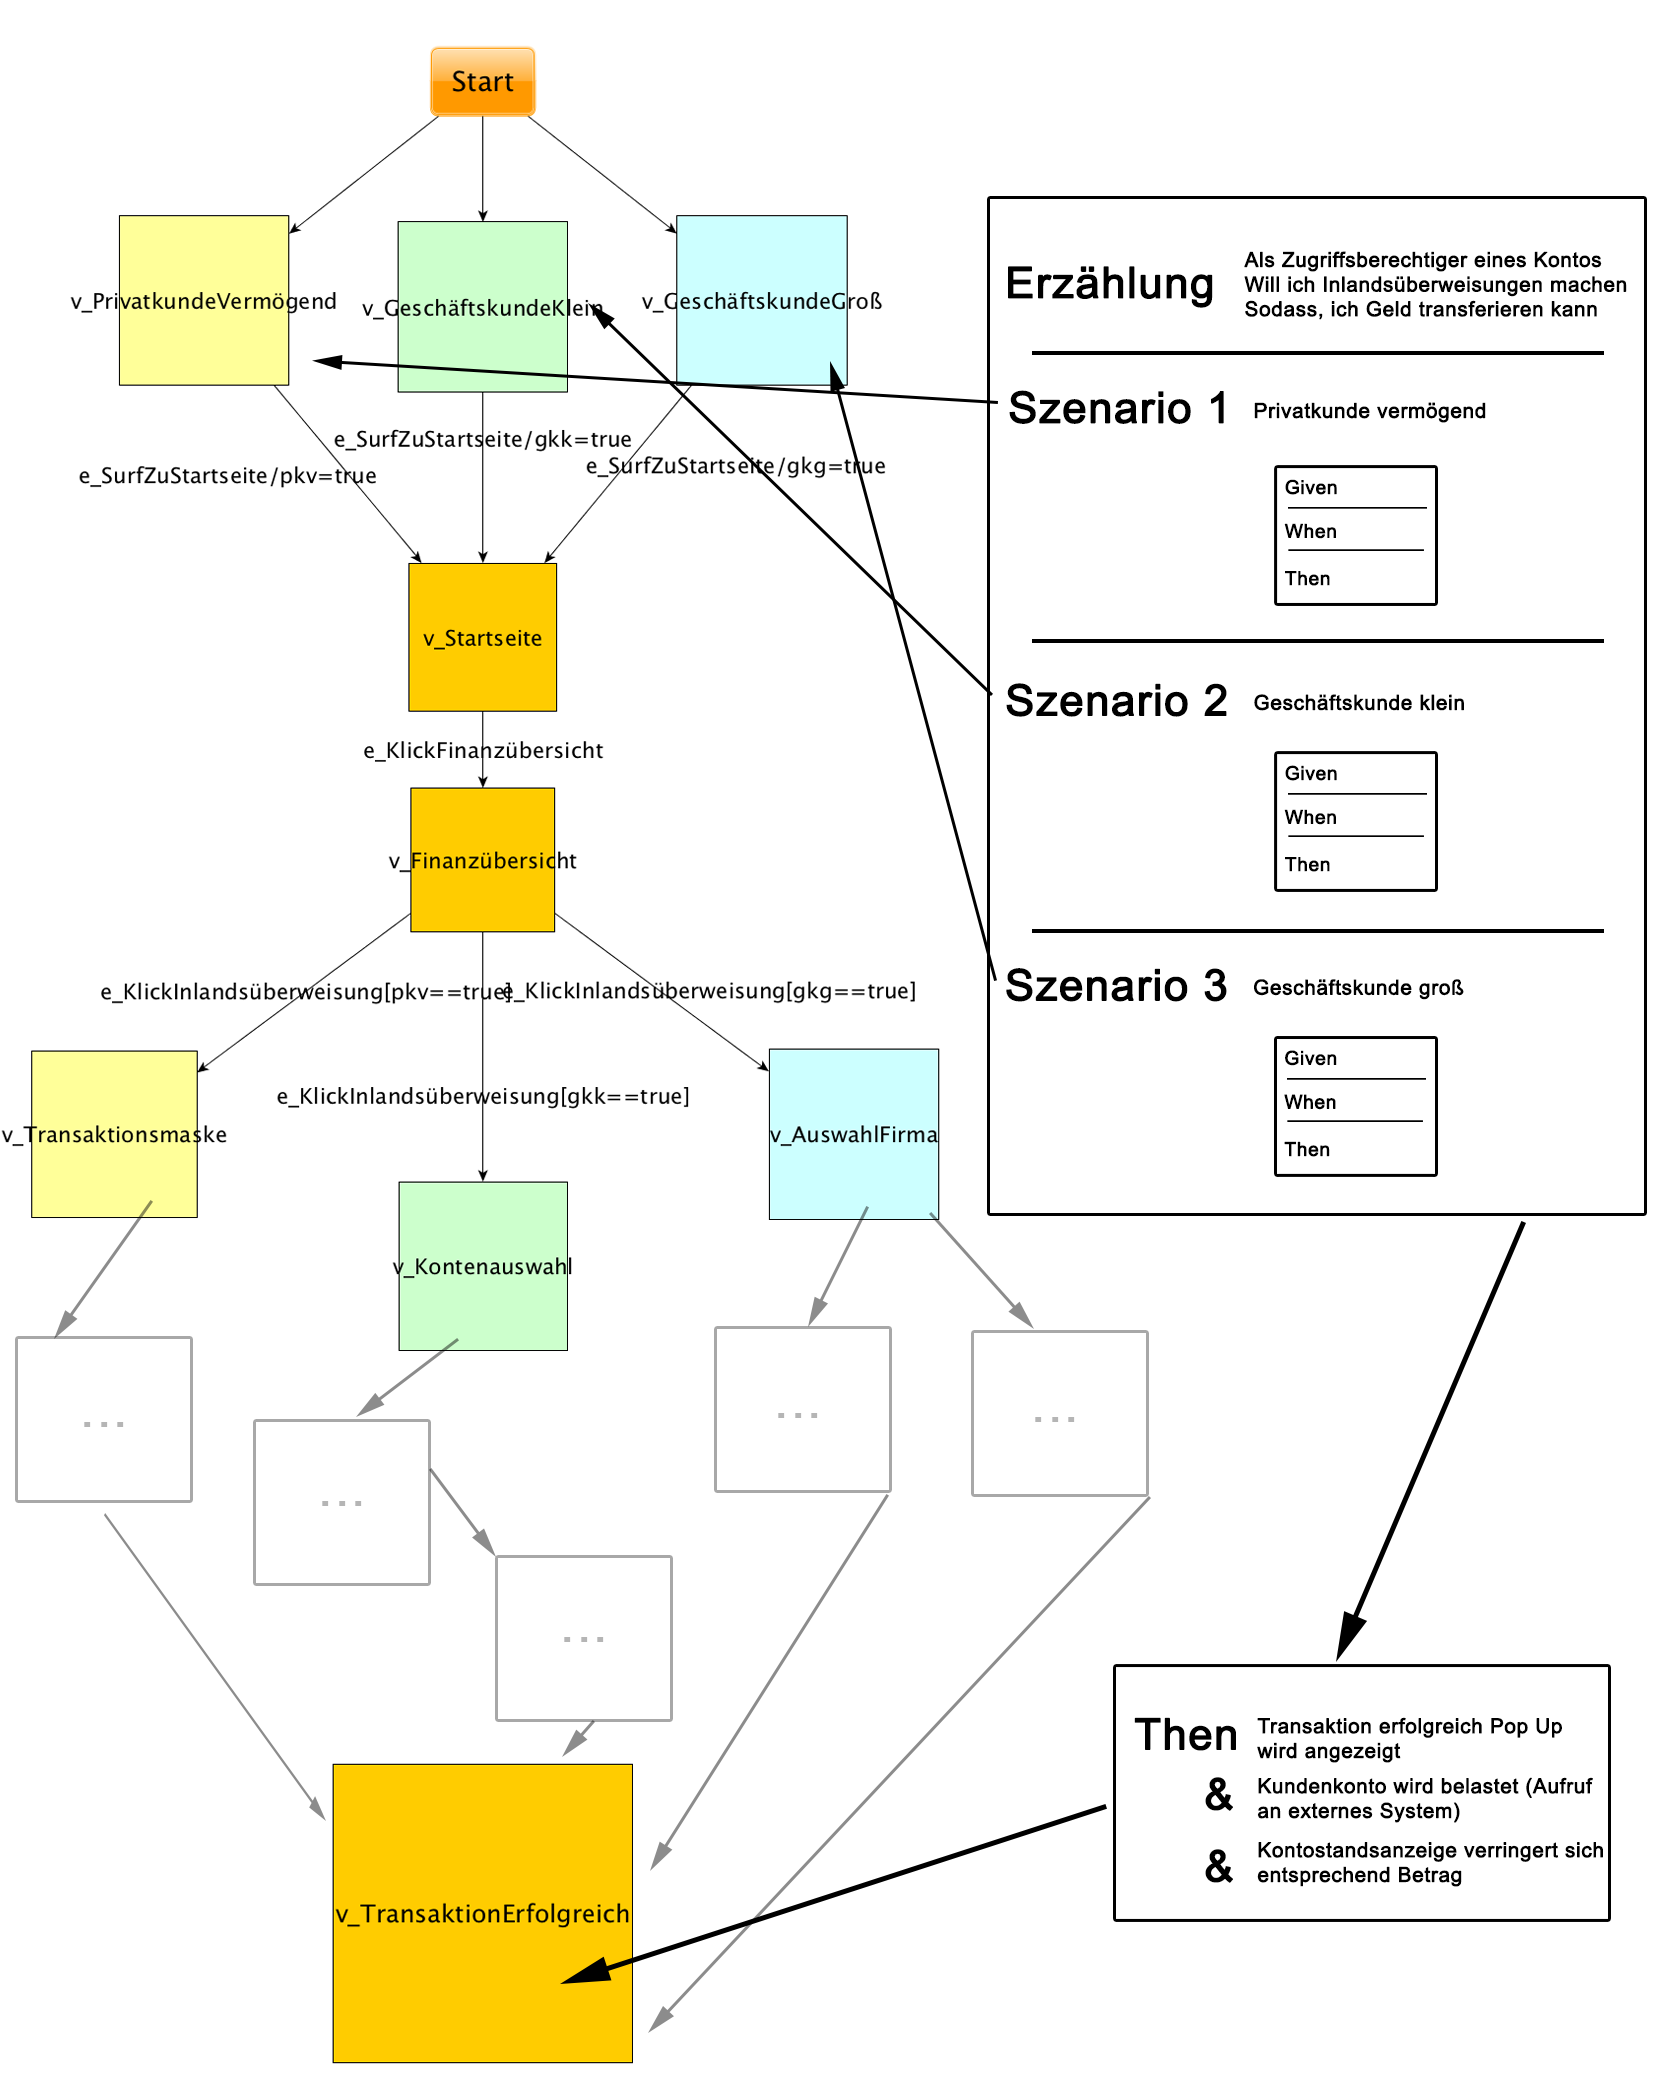
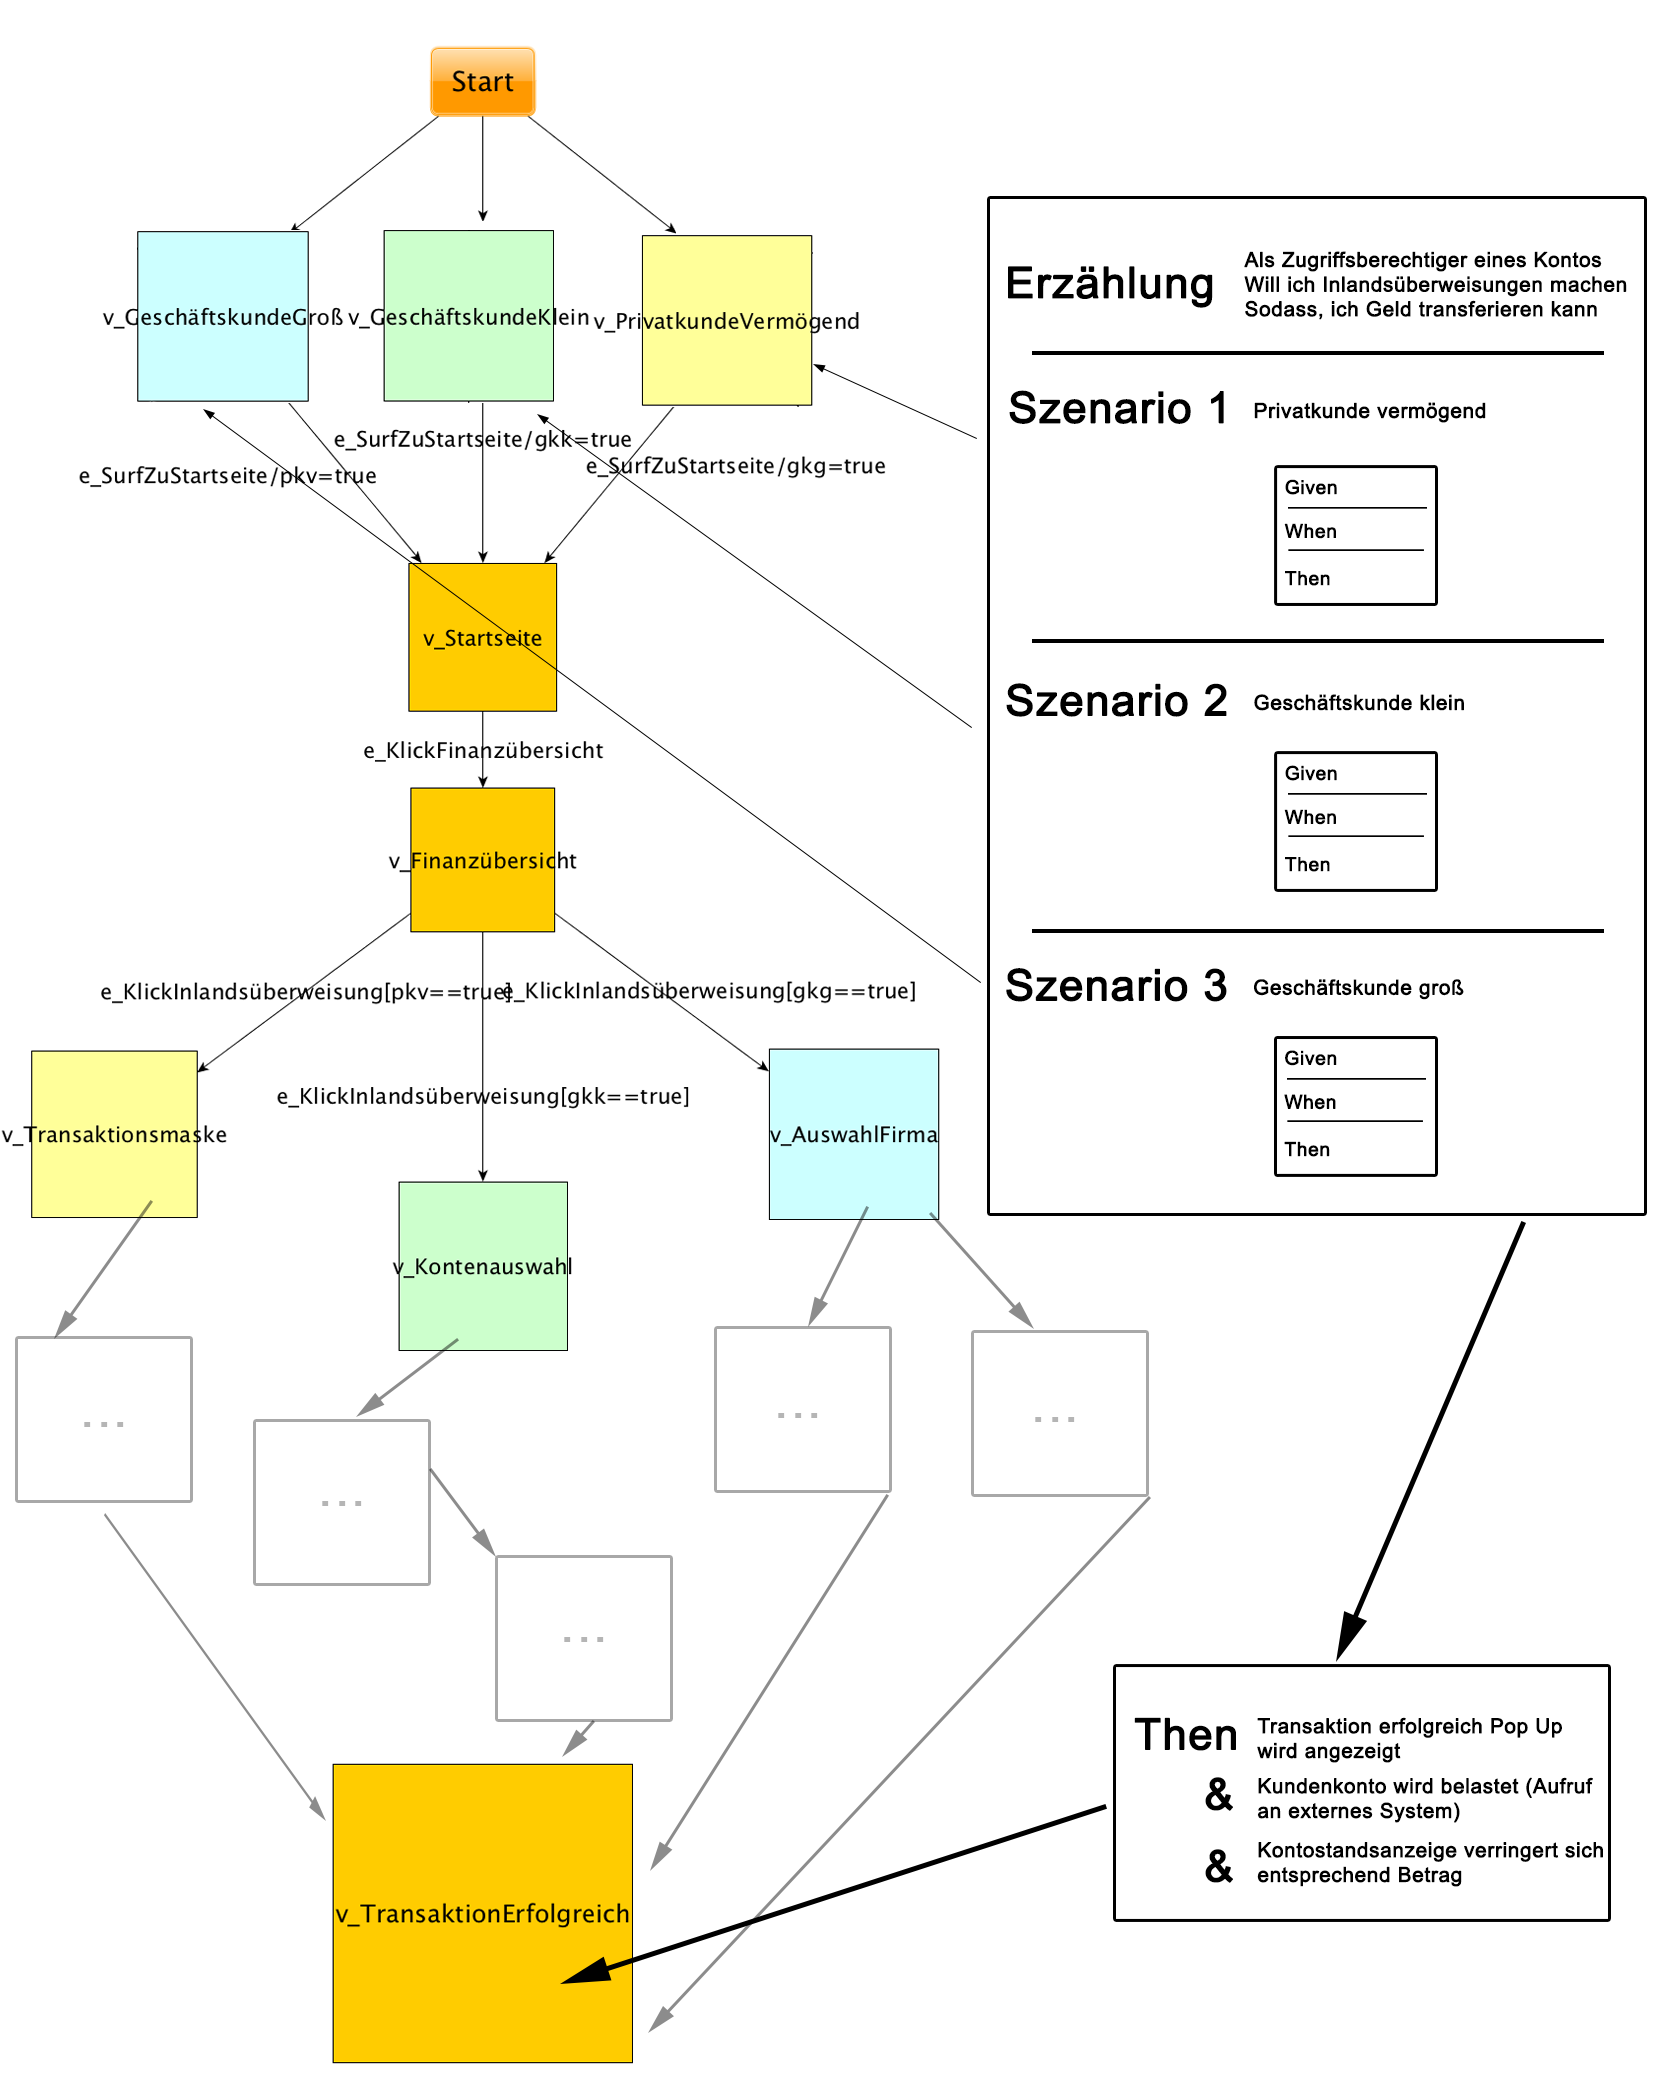
Change size of graphics, fix crossing arrows, fix subsubsection in Chap 5

Changed region(s): [[0.0614, 0.0924, 0.5223, 0.2156], [0.5223, 0.2772, 0.553, 0.308]]

diff --git a/chapters/evaluation.tex b/chapters/evaluation.tex
@@ -14,7 +14,7 @@ Um die vorgestellte Teststrategie aus Abschnitt \label{sec:mbt_bdt_concept} zu e
 \section{Gegenüberstellung zu Verbesserungsmaßnahmen}
 Es folgt die Gegenüberstellung der Eigenschaften der Teststrategie zu den drei vorgeschlagenen Verbesserungsmaßnahmen (\ref{sec:massnahmen}):
 
-\subsubsection{Form der Spezifikationen}
+\subsection{Form der Spezifikationen}
 In den Interviews mit Mitgliedern des Fachbereichs hat sich gezeigt, dass Spezifikationen uneinheitlich verfasst werden. \Gls{COS} werden zwar eingesetzt, es gibt aber keine Regeln in welchem Detailgrad diese vorliegen müssen. Außerdem, und dies ist eine allgemeine Schwierigkeit im Einsatz von isolierten \Gls{BDT}'s, variiert die Empfindung darüber wieviele \Gls{BDD}-Spezifikationen ausreichend sind.\\ Der Einsatz der vorgestellten Testarchitektur verbessert diesen Prozess an mehreren Stellen:
 
 \begin{itemize}
@@ -23,10 +23,10 @@ In den Interviews mit Mitgliedern des Fachbereichs hat sich gezeigt, dass Spezif
 \item \textbf{Format:} Bei Einigung auf den Einsatz der vorgestellten Testarchitektur wäre eine einheitliche Form der Spezifikationen gegeben.
 \end{itemize}
 
-\subsubsection{Kommunikation über Teamgrenzen}
+\subsection{Kommunikation über Teamgrenzen}
 Mehrere Teams, die an einem Softwareprojekt mitwirken, sind bereits schwer zu koordinieren und erfordern eine reibungslose Kommunikationsstruktur. Wenn manche Gruppierungen nur über beschränkte Zeiträume am Projekt teilnehmen, ist es noch schwieriger diese produktiv miteinzubeziehen ohne Gefahr zu laufen den Projektfortschritt zu verlangsamen. Vor allem aus den Interviews mit Projektmitgliedern, die nicht an der täglichen Entwicklung teilnehmen, stellte sich dies heraus. Die vorgestellte Teststrategie ist kein Kommunikationskanal oder ähnliches, ermöglicht aber den Informationsaustausch bezüglich der Software über Prosatext hinaus. Weil die Modelle das Softwaresystem nicht nur veranschaulichen oder nachstellen sondern tatsächlich prüfen und damit repräsentieren, können sie dazu verwendet werden um über Teamgrenzen hinweg zu kommunizieren. Ihre grafische Einfachheit machen sie weitflächig verständlich aber weniger mehrdeutig als Prosatext. Um diese Art der Kommunikation weiter zu präzisieren, können die Modelle mit \Gls{BDT} Elementen angereichert werden, wie es in Abschnitt \ref{sec:mbt_bdt_parallelen} gezeigt wurde. Auch dieser Schritt ist nicht an technische Fähigkeiten gekoppelt. Es handelt sich um einfache Aussagen im Kontext von \textit{Given-When-Then}. Damit kann das Programm auf beliebigen Ebenen in frei wählbarem Detailgrad dargestellt werden. Auch die Vergleichbarkeit zweier Aussagen erhöht sich massiv gegenüber der Aussage von Prosatext. Einzige Voraussetzung um sich mittels Modellen und BDT zu verständigen ist ein flächendeckendes Grundverständnis für beide Methodiken. In der Fallstudie hat sich gezeigt, dass dies in einem Zeitrahmen von einem halben Arbeitstag erreichbar ist.
 
-\subsubsection{Einbeziehen des Fachbereichs}
+\subsection{Einbeziehen des Fachbereichs}
 In Prozessmodellen wie dem V-Modell und dessen Verwandten \cite{hohn_v-modell_2008} werden Anforderungen an das Softwaresystem vom Fachbereich gesammelt und in strukturierter Form an das Entwicklungsteam weitergeleitet. Naturgemäß werden Tests auf Komponenten- und Integrationsebene gänzlich vom Entwicklungsteam entworfen. Nur sie haben den nötigen Einblick in die Architektur des Systems. Infolgedessen hat sich in der Fallstudie ergeben, dass weitreichendere Integrations- und Systemtests nur vom Fachbereich durchgeführt wurden. In keine der beiden Richtungen wurde klar kommuniziert welchen Fokus die durchgeführten Tests hatten und welche Bereiche damit abgedeckt wurden. Durch das Einbeziehen des Fachbereichs bei der Konkretisierung der Anforderungen auf Seiten der Entwickler besteht großes Einsparungspotenzial. Zeit- und Ressourcenersparnis zeigt sich an zwei Stellen: Erstens ermöglichen Modelle und \Gls{BDT}'s vor der eigentlichen Entwicklung bereits eine Erhöhung der Spezifikationspräzision. Zweitens stellen diese gleichzeitig eine Testdefintion dar. Zum Zeitpunkt der System- und Abnahmetests liegen also bereits automatisierte oder zumindest einfach automatisierbare Tests vor. All dies wird ermöglicht indem die Arbeit zwischen Entwicklung und Fachbereichen enger aufeinander abgestimmt wird. Als Werkzeug dient die Kombination von \Gls{MBT} und \Gls{BDT}.
 
 \section{Vergleich mit skriptgesteuerten GUI-Tests}

diff --git a/chapters/results.tex b/chapters/results.tex
@@ -296,7 +296,7 @@ Es ist empfehlenswert eine grafische oder dokumentarische Verbindung zwischen de
 \begin{figure}
 \hspace*{-2cm}
   \centering
-     \includegraphics[width=1.25\textwidth]{figures/mbt_bdt_gesamt.png}
+     \includegraphics[width=1.20\textwidth]{figures/mbt_bdt_gesamt.png}
   \caption{BDT Szenarien können im Modell explizit dargestellt werden}
   \label{fig:mbt_bdt_gesamt}
 \end{figure}
